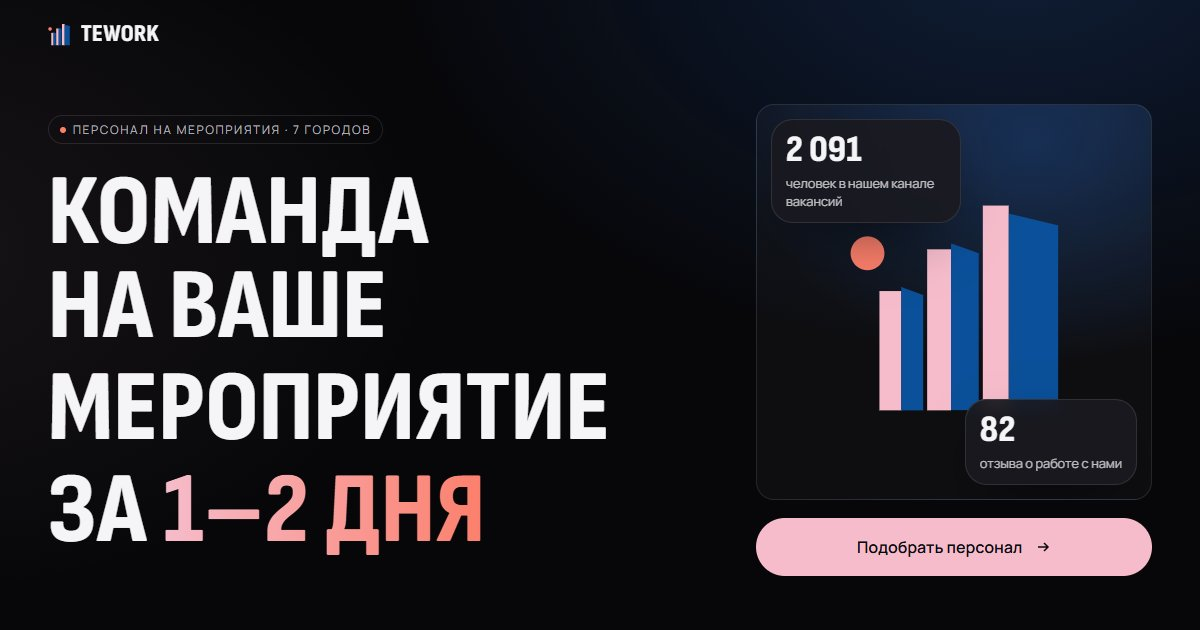
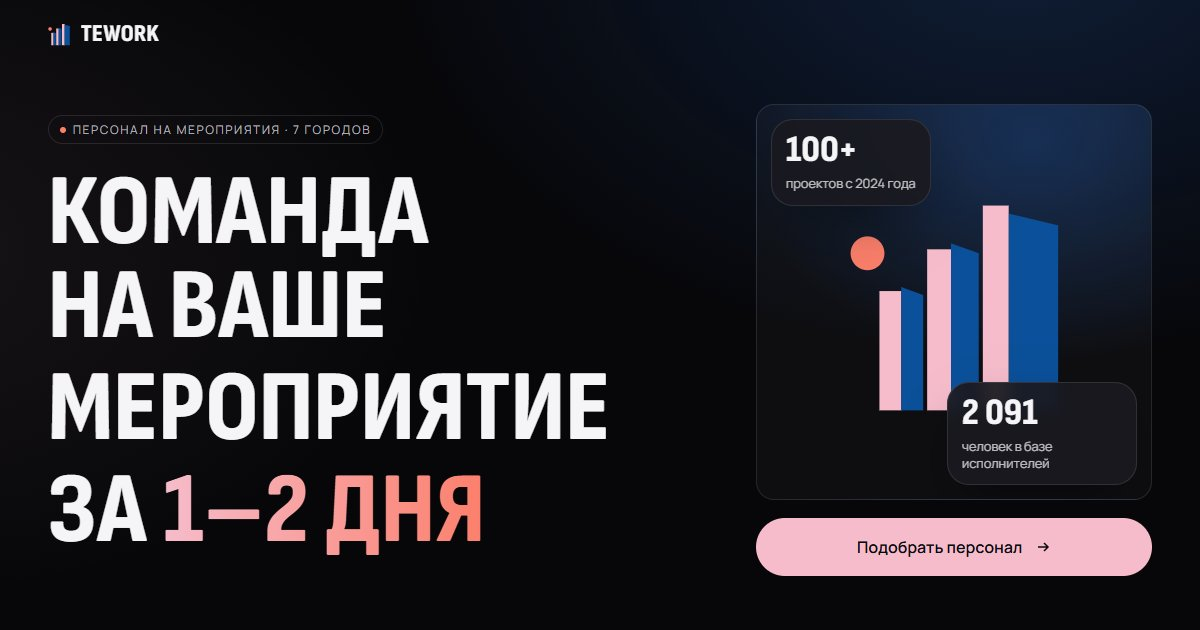
publish 2026-10-06 10:44

Changed region(s): [[0.6475, 0.181, 0.8017, 0.3619], [0.7708, 0.6032, 0.925, 0.754], [0.7092, 0.3619, 0.74, 0.3921]]

diff --git a/index.html b/index.html
@@ -499,6 +499,61 @@ html[data-direction="neon"] .stats{gap:clamp(16px,2.4vw,36px)}
 @media (max-width:560px){.btns .btn{width:100%;white-space:normal;text-align:center}}
 /* наклонная лента не должна давать прокрутку вбок */
 .band{overflow:hidden;padding-block:clamp(18px,3vw,40px)}
+/* ===== v2: проекты шире, отзывы заказчиков, поле в заявке, телефон ===== */
+.case--wide{grid-column:span 2;flex-direction:row;align-items:stretch;padding:12px}
+.case--wide .case__img{flex:0 0 46%;aspect-ratio:auto;min-height:300px}
+.case--wide .case__body{justify-content:center;padding:14px 16px}
+.case--wide .case__t{font-size:clamp(1.8rem,1.3rem + 1.6vw,2.7rem)}
+.picker__free{display:grid;gap:.6rem}
+.picker__in{width:100%;background:color-mix(in srgb,var(--ink) 5%,transparent);border:1px solid var(--line-strong);border-radius:999px;color:var(--ink);font:inherit;font-size:.95rem;padding:.75em 1.1em;outline:0;transition:border-color 160ms ease}
+.picker__in::placeholder{color:var(--ink-mute)}
+.picker__in:focus{border-color:var(--accent)}
+.reviews--workers .review blockquote{font-size:.92rem}
+/* ===== телефон: плотнее, крупнее кнопки, порядок блоков ===== */
+@media (max-width:980px){.case--wide{grid-column:1 / -1}}
+@media (max-width:860px){
+  :root{--sec-pad:clamp(56px,10vw,80px)}
+  .hero--split .hero__in{padding-top:88px}
+  .hero__title{font-size:clamp(3rem, 13.5vw, 4.4rem)}
+  .hero .lead{font-size:1rem;margin-top:1.1rem}
+  .hero__side{gap:12px}
+  .brandmark{padding:12px}
+  .brandmark__svg{width:26%;margin:4px 0 2px}
+  .hero .fcard{padding:10px 12px}
+  .hero .fcard__big{font-size:1.5rem}
+  .band{padding-block:14px}
+  .marquee__track > *{font-size:1rem}
+  .brands__list{gap:.3rem 1.2rem}
+  .brands__list li{font-size:1.35rem}
+  .stats{margin-top:32px;row-gap:22px}
+  .stat__num{font-size:2.2rem}
+  .stat__cap{font-size:.82rem}
+  .bento{gap:10px}
+  .card{padding:18px}
+  .roles li{font-size:.98rem}
+  .step{padding:1.1rem 0}
+  .step__n{font-size:1.5rem}
+  .cases{gap:10px}
+  .case{padding:10px 10px 16px}
+  .case__img{aspect-ratio:16/11}
+  .case--wide{flex-direction:column}
+  .case--wide .case__img{flex:none;aspect-ratio:16/11;min-height:0}
+  .case--text ul{gap:.5rem}
+  .reviews{gap:10px}
+  .review{padding:18px}
+  .review blockquote{font-size:.95rem}
+  .jobs__rate{font-size:2rem}
+  .faq .sec__head{margin-bottom:24px}
+  .picker{padding:18px}
+  .opts{gap:.4rem}
+  .opt span{padding:.55em .9em;font-size:.88rem}
+  .contactline{margin-top:1.2rem}
+  .ftr__word{font-size:22vw}
+}
+@media (max-width:420px){
+  .cases{grid-template-columns:1fr}
+  .hero__title{font-size:clamp(2.7rem, 13vw, 3.4rem)}
+}
 /*/SITE*/
 </style>
 </head>
@@ -516,7 +571,7 @@ html[data-direction="neon"] .stats{gap:clamp(16px,2.4vw,36px)}
   <div class="wrap hdr__in">
     <a class="hdr__logo" href="#top" aria-label="TeWork Agency, наверх"><svg viewBox="-22 0 214 222" aria-hidden="true"><circle cx="-2" cy="62" r="17" fill="#fc7f6b"/><rect x="10" y="100" width="22" height="120" fill="#f6bccb"/><polygon points="32,96 54,104 54,220 32,220" fill="#0a509a"/><rect x="58" y="58" width="24" height="162" fill="#f6bccb"/><polygon points="82,52 110,62 110,220 82,220" fill="#0a509a"/><rect x="114" y="14" width="26" height="206" fill="#f6bccb"/><polygon points="140,22 190,34 190,220 140,220" fill="#0a509a"/></svg>TEWORK</a>
     <nav class="hdr__nav" aria-label="Разделы">
-      <a href="#personal">Персонал</a><a href="#kak">Как работаем</a><a href="#proekty">Проекты</a><a href="#rabota">Работа у нас</a><a href="#voprosy">Вопросы</a>
+      <a href="#personal">Персонал</a><a href="#kak">Как работаем</a><a href="#proekty">Проекты</a><a href="#otzyvy">Отзывы</a><a href="#rabota">Работа у нас</a>
     </nav>
     <a class="btn btn--primary btn--sm" href="#zayavka">Подобрать персонал</a>
   </div>
@@ -535,8 +590,8 @@ html[data-direction="neon"] .stats{gap:clamp(16px,2.4vw,36px)}
       <div class="hero__side">
         <div class="brandmark" aria-hidden="true">
           <svg class="brandmark__svg" viewBox="-22 0 214 222"><circle class="dot" cx="-2" cy="62" r="17" fill="#fc7f6b"/><rect class="bar" style="--i:0" x="10" y="100" width="22" height="120" fill="#f6bccb"/><polygon class="bar" style="--i:1" points="32,96 54,104 54,220 32,220" fill="#0a509a"/><rect class="bar" style="--i:2" x="58" y="58" width="24" height="162" fill="#f6bccb"/><polygon class="bar" style="--i:3" points="82,52 110,62 110,220 82,220" fill="#0a509a"/><rect class="bar" style="--i:4" x="114" y="14" width="26" height="206" fill="#f6bccb"/><polygon class="bar" style="--i:5" points="140,22 190,34 190,220 140,220" fill="#0a509a"/></svg>
-          <div class="fcard fcard--a" style="--i:0"><div class="fcard__big nums">2 091</div><p class="fcard__cap">человек в нашем канале вакансий</p></div>
-          <div class="fcard fcard--b" style="--i:1"><div class="fcard__big nums">82</div><p class="fcard__cap">отзыва о работе с нами</p></div>
+          <div class="fcard fcard--a" style="--i:0"><div class="fcard__big nums">100+</div><p class="fcard__cap">проектов с 2024 года</p></div>
+          <div class="fcard fcard--b" style="--i:1"><div class="fcard__big nums">2 091</div><p class="fcard__cap">человек в базе исполнителей</p></div>
         </div>
         <a class="btn btn--primary hero__cta" href="#zayavka">Подобрать персонал <svg class="btn__arr" viewBox="0 0 16 16" fill="none" stroke="currentColor" stroke-width="1.5" aria-hidden="true"><path d="M3 8h10M9 4l4 4-4 4"/></svg></a>
       </div>
@@ -557,14 +612,14 @@ html[data-direction="neon"] .stats{gap:clamp(16px,2.4vw,36px)}
       <div class="brands" data-reveal>
         <span class="chip">Нам доверяют</span>
         <ul class="brands__list">
-          <li>Сбер</li><li>Cloud.ru</li><li>Яндекс Плюс</li><li>PepsiCo</li><li>МТС Live</li><li>FITmost</li><li>Twinby</li><li>Lumos Concerts</li><li>SQ Clinic</li>
+          <li>Сбер</li><li>Cloud.ru</li><li>Летуаль</li><li>Rostic’s</li><li>DDX Fitness</li><li>FITmost</li><li>PepsiCo</li><li>МТС Live</li><li>Twinby</li><li>Lumos Concerts</li><li>SQ Clinic</li>
         </ul>
       </div>
       <ul class="stats nums" data-reveal>
         <li class="stat"><div class="stat__num">7</div><p class="stat__cap">городов: Москва, Санкт-Петербург, Сочи, Казань, Самара, Калининград, Тверь</p></li>
         <li class="stat"><div class="stat__num">14</div><p class="stat__cap">ролей: от хостес до координатора площадки</p></li>
         <li class="stat"><div class="stat__num">1–2 дня</div><p class="stat__cap">закрываем срочную заявку</p></li>
-        <li class="stat"><div class="stat__num">2024</div><p class="stat__cap">с этого года собираем команды на мероприятия</p></li>
+        <li class="stat"><div class="stat__num">100+</div><p class="stat__cap">проектов с 2024 года: от промо в школах до премий Сбера</p></li>
       </ul>
     </div>
   </section>
@@ -597,7 +652,7 @@ html[data-direction="neon"] .stats{gap:clamp(16px,2.4vw,36px)}
       <div class="sec__head"><span class="chip">Как работаем</span><h2 class="h2">От заявки до <em class="hl">площадки</em></h2><p class="lead">Вам не нужно искать людей и следить за ними на мероприятии. Это наша работа.</p></div>
       <ol class="steps">
         <li class="step" data-reveal style="--i:0"><span class="step__n nums">01</span><h3 class="step__t">Вы рассказываете о мероприятии</h3><p class="step__d">Город, дата, сколько людей и в каких ролях. Хватит сообщения в мессенджере.</p></li>
-        <li class="step" data-reveal style="--i:1"><span class="step__n nums">02</span><h3 class="step__t">Подбираем людей</h3><p class="step__d">Из постоянной базы, с опытом работы на мероприятиях. Срочную заявку закрываем за 1–2 дня.</p><span class="tag">1–2 дня</span></li>
+        <li class="step" data-reveal style="--i:1"><span class="step__n nums">02</span><h3 class="step__t">Подбираем людей и показываем вам</h3><p class="step__d">Из постоянной базы, с опытом работы на мероприятиях. Присылаем презентацию с кандидатами: фото и опыт, вы выбираете. Срочную заявку закрываем за 1–2 дня.</p><span class="tag">1–2 дня</span></li>
         <li class="step" data-reveal style="--i:2"><span class="step__n nums">03</span><h3 class="step__t">Заключаем договор</h3><p class="step__d">Работаем по договору. Условия обсуждаем до мероприятия.</p><span class="tag">договор</span></li>
         <li class="step" data-reveal style="--i:3"><span class="step__n nums">04</span><h3 class="step__t">Координируем на площадке</h3><p class="step__d">Супервайзер ведёт команду: ребята работают слаженно и знают, что делать.</p></li>
         <li class="step" data-reveal style="--i:4"><span class="step__n nums">05</span><h3 class="step__t">Находим замену</h3><p class="step__d">Если кто-то не вышел на смену, ставим другого человека из базы.</p></li>
@@ -605,44 +660,71 @@ html[data-direction="neon"] .stats{gap:clamp(16px,2.4vw,36px)}
     </div>
   </section>
 
-  <!-- ПРОЕКТЫ -->
+
+
+  <!-- ПРОЕКТЫ: фото от агентства (оригиналы), подписи — из описаний Андрея -->
   <section class="sec" id="proekty" aria-label="Проекты">
     <div class="wrap">
-      <div class="sec__head"><span class="chip">Проекты</span><h2 class="h2">Где работала <em class="hl">наша команда</em></h2></div>
+      <div class="sec__head"><span class="chip">Проекты</span><h2 class="h2">Где работала <em class="hl">наша команда</em></h2><p class="lead">Больше ста проектов с 2024 года. Вот несколько.</p></div>
       <div class="cases">
-        <article class="case" data-reveal style="--i:0">
-          <div class="case__img"><img src="assets/works/post15-1.jpg" alt="Промо-модели TeWork на Премии в области R&amp;D" width="533" height="666" loading="lazy"></div>
+        <article class="case case--wide" data-reveal style="--i:0">
+          <div class="case__img"><img src="assets/works/letual-1.jpg" alt="Студенты-амбассадоры Летуаль в вузе" width="900" height="1125" loading="lazy"></div>
+          <div class="case__body"><p class="case__who">Летуаль · Москва</p><h3 class="case__t">Амбассадоры в 18 вузах</h3><p>Студенты-амбассадоры две недели одновременно работали в своих вузах и продвигали «бьюти-стипендию».</p>
+            <div class="tags"><span class="tag">18 вузов</span><span class="tag">2 недели</span><span class="tag">Промо-персонал</span></div></div>
+        </article>
+        <article class="case" data-reveal style="--i:1">
+          <div class="case__img"><img src="assets/works/sber-rd.jpg" alt="Промо-модели TeWork на Премии в области R&amp;D" width="533" height="666" loading="lazy"></div>
           <div class="case__body"><p class="case__who">Сбер и Cloud.ru</p><h3 class="case__t">Премия в области R&amp;D</h3><p>Промо-модели встречали гостей, супервайзеры координировали площадку и участвовали в церемонии награждения.</p>
             <div class="tags"><span class="tag">Промо-модели</span><span class="tag">Супервайзеры</span></div></div>
         </article>
-        <article class="case" data-reveal style="--i:1">
-          <div class="case__img"><img src="assets/works/post18-1.jpg" alt="Сцена концерта при свечах Lumos Concerts" width="600" height="750" loading="lazy"></div>
-          <div class="case__body"><p class="case__who">Lumos Concerts</p><h3 class="case__t">Концерт при свечах</h3><p>Струнный квартет при свечах. На концерте работала наша команда.</p></div>
-        </article>
         <article class="case" data-reveal style="--i:2">
-          <div class="case__img"><img src="assets/works/post26-1.jpg" alt="Промоутеры TeWork на Match&amp;Stretch" width="600" height="750" loading="lazy"></div>
-          <div class="case__body"><p class="case__who">FITmost и Twinby · Санкт-Петербург</p><h3 class="case__t">Match&amp;Stretch</h3><p>30 августа 2025. Промоутеры сопровождали гостей весь день: мастер-классы, лекции, йога.</p>
-            <div class="tags"><span class="tag">Промоутеры</span><span class="tag">Координатор</span></div></div>
+          <div class="case__img"><img src="assets/works/ddx-run.jpg" alt="Команда DDX Fitness на московском забеге" width="900" height="1125" loading="lazy"></div>
+          <div class="case__body"><p class="case__who">DDX Fitness · Москва</p><h3 class="case__t">Забеги с поддержкой</h3><p>Наша команда поддерживала бегунов на московских забегах и давала мотивацию. Несколько локаций, один партнёр.</p>
+            <div class="tags"><span class="tag">Промо-персонал</span></div></div>
         </article>
         <article class="case" data-reveal style="--i:0">
-          <div class="case__img"><img src="assets/works/post12-2.jpg" alt="Йога на крыше, мероприятие FITmost" width="640" height="800" loading="lazy"></div>
+          <div class="case__img"><img src="assets/works/morozhenoe.jpg" alt="Акция «Ура, мороженое» в школе" width="900" height="1125" loading="lazy"></div>
+          <div class="case__body"><p class="case__who">Школы и университет</p><h3 class="case__t">Акция «Ура, мороженое»</h3><p>Две школы и один университет. Учащиеся отвлеклись от учёбы и попробовали новинки.</p>
+            <div class="tags"><span class="tag">Промоутеры</span></div></div>
+        </article>
+        <article class="case" data-reveal style="--i:1">
+          <div class="case__img"><img src="assets/works/fitmost-yoga.jpg" alt="Йога на крыше, мероприятие FITmost" width="640" height="800" loading="lazy"></div>
           <div class="case__body"><p class="case__who">FITmost</p><h3 class="case__t">Солнечная йога</h3><p>Йога и медитация на крыше. Ведущий вёл программу, хелперы следили за порядком.</p>
             <div class="tags"><span class="tag">Ведущий</span><span class="tag">Хелперы</span></div></div>
         </article>
-        <article class="case case--text" data-reveal style="--i:1">
+        <article class="case" data-reveal style="--i:2">
+          <div class="case__img"><img src="assets/works/match-stretch.jpg" alt="Промоутеры TeWork на Match&amp;Stretch" width="600" height="750" loading="lazy"></div>
+          <div class="case__body"><p class="case__who">FITmost и Twinby · Санкт-Петербург</p><h3 class="case__t">Match&amp;Stretch</h3><p>Промоутеры сопровождали гостей весь день: мастер-классы, лекции, йога.</p>
+            <div class="tags"><span class="tag">Промоутеры</span><span class="tag">Координатор</span></div></div>
+        </article>
+        <article class="case case--text" data-reveal style="--i:0">
           <div><p class="case__who">И ещё</p><h3 class="case__t" style="margin-top:.5rem">Другие проекты</h3></div>
           <ul>
+            <li>День рождения Rostic’s<small>промоутеры развлекали гостей ресторана</small></li>
+            <li>Концерт при свечах Lumos Concerts<small>струнный квартет, тысячи свечей</small></li>
             <li>Конференция PepsiCo<small>4 и 5 марта 2025</small></li>
             <li>SQ Clinic на InterCHARM и Russian Barber Week<small>октябрь 2025</small></li>
             <li>Стенд МТС Live<small>17 августа 2025</small></li>
-            <li>Яндекс Плюс<small>февраль 2025</small></li>
           </ul>
         </article>
-        <article class="case case--cta" data-reveal style="--i:2">
+        <article class="case case--cta" data-reveal style="--i:1">
           <div><p class="case__who">Место для вас</p><h3 class="case__t" style="margin-top:.5rem">Следующим может быть ваш проект</h3></div>
           <div class="btns"><a class="btn btn--ghost" href="#zayavka">Рассказать о мероприятии</a></div>
         </article>
       </div>
+    </div>
+  </section>
+
+  <!-- ОТЗЫВЫ ЗАКАЗЧИКОВ: дословно из переписки, переданы Андреем 05–06.10.2026 -->
+  <section class="sec" id="otzyvy" aria-label="Отзывы заказчиков">
+    <div class="wrap">
+      <div class="sec__head"><span class="chip">Отзывы заказчиков</span><h2 class="h2">«Всегда были на связи и оперативно <em class="hl">отвечали</em>»</h2></div>
+      <div class="reviews">
+        <figure class="review" data-reveal style="--i:0"><blockquote>«Андрей, привет! Возвращаюсь с фитбэком после ивента к тебе! Хочу поблагодарить тебя и всю команду TeWork Agency за отличную работу. Понравилось, что вы всегда были на связи и оперативно отвечали на все вопросы. Процесс работы с вами правда был прозрачным, быстрым, поэтому и мы и клиент остались только с хорошим впечатлением после мероприятия. Будем на обязательно на связи и с радостью поработаем в будущем»</blockquote><figcaption class="review__who"><span class="review__av">F</span><span><b>FITmost</b>после мероприятия</span></figcaption></figure>
+        <figure class="review" data-reveal style="--i:1"><blockquote>«Ценю работу с агентством TeWork Agency за качество и совершенный сервис. Всегда уверена, что запрос будет выполнен, потому что Андрей искренне болеет за результат. На них всегда можно положиться.»</blockquote><figcaption class="review__who"><span class="review__av">R</span><span><b>Rostic’s</b>заказчик</span></figcaption></figure>
+        <figure class="review" data-reveal style="--i:2"><blockquote>«Периодически пользуюсь услугами агенства TeWork Agency, все очень понравилось. Работают очень ответственные ребята, клиентоориентированные и отзывчивые»</blockquote><figcaption class="review__who"><span class="review__av">З</span><span><b>Заказчик масс-подбора</b>постоянный клиент</span></figcaption></figure>
+      </div>
+      <p class="reviews__note">Отзывы заказчиков без правок.</p>
     </div>
   </section>
 
@@ -656,12 +738,12 @@ html[data-direction="neon"] .stats{gap:clamp(16px,2.4vw,36px)}
           <div class="btns"><a class="btn btn--ghost" href="https://t.me/TeWorkAgency" target="_blank" rel="noopener">Смотреть вакансии в Telegram</a></div>
         </div>
       </div>
-      <div class="reviews" id="otzyvy">
+      <div class="reviews reviews--workers">
         <figure class="review" data-reveal style="--i:0"><blockquote>«Работала на мероприятии фитмоста в коллаборации с твинби в Санкт-Петербурге. Всё прошло хорошо. Атмосфера была очень дружеская. Порадовала сплочённость команды. Приятным бонусом было то, что о работниках позаботились, заказали воду и еду. Оплата пришла на утро после мероприятия. Спасибо большое Андрею и TeWork! Буду ждать дальнейших проектов в Питере 😉»</blockquote><figcaption class="review__who"><span class="review__av">С</span><span><b>Софья</b>31 августа 2025</span></figcaption></figure>
         <figure class="review" data-reveal style="--i:1"><blockquote>«Работала от  TeWork Очень понравилось сотрудничество, работали в дружном и ответственном коллективе. ЗП получили в день работы . Команда всегда была на связи. Остались только положительные эмоции и добрые воспоминания»</blockquote><figcaption class="review__who"><span class="review__av">E</span><span><b>ENNI</b>13 октября 2025</span></figcaption></figure>
         <figure class="review" data-reveal style="--i:2"><blockquote>«Хочу поблагодарить команду TeWork Agency за предложение работы! На заявки отвечают профессионально и быстро. Отдельно отмечу четкую коммуникацию и ответственный подход на всех этапах. Оплата труда произведена в кратчайшие сроки, определённо рекомендую к сотрудничеству!»</blockquote><figcaption class="review__who"><span class="review__av">L</span><span><b>Lizaveta Hrabouskaya</b>20 сентября 2025</span></figcaption></figure>
       </div>
-      <p class="reviews__note">Отзывы из нашего Telegram-канала без правок. <a href="https://t.me/TeWorkfeedback" target="_blank" rel="noopener">Все 82 отзыва</a></p>
+      <p class="reviews__note">Отзывы исполнителей из нашего Telegram-канала без правок. <a href="https://t.me/TeWorkfeedback" target="_blank" rel="noopener">Все 82 отзыва</a></p>
     </div>
   </section>
 
@@ -684,7 +766,7 @@ html[data-direction="neon"] .stats{gap:clamp(16px,2.4vw,36px)}
   <section class="sec" id="zayavka" aria-label="Заявка">
     <div class="wrap duo">
       <div>
-        <div class="sec__head" style="margin-bottom:0"><span class="chip">Заявка</span><h2 class="h2">Расскажите о <em class="hl">мероприятии</em></h2><p class="lead">Отметьте, кто нужен и в каком городе. Сообщение соберётся само, останется отправить.</p></div>
+        <div class="sec__head" style="margin-bottom:0"><span class="chip">Заявка</span><h2 class="h2">Расскажите о <em class="hl">мероприятии</em></h2><p class="lead">Отметьте, кто нужен, сколько и в каком городе. Сообщение соберётся само, останется отправить.</p></div>
         <div class="contactline"><a class="tel nums" href="tel:+79166188554">+7 916 618-85-54</a><span>WhatsApp и Telegram по этому номеру</span></div>
       </div>
       <form class="picker" data-picker data-wa="79166188554" data-greet="Здравствуйте! Нужен персонал на мероприятие">
@@ -709,6 +791,15 @@ html[data-direction="neon"] .stats{gap:clamp(16px,2.4vw,36px)}
           <label class="opt"><input type="radio" name="c" value="Калининград"><span>Калининград</span></label>
           <label class="opt"><input type="radio" name="c" value="Тверь"><span>Тверь</span></label>
         </div></fieldset>
+        <fieldset><legend>Сколько человек</legend><div class="opts">
+          <label class="opt"><input type="radio" name="n" value="1–3 человека"><span>1–3</span></label>
+          <label class="opt"><input type="radio" name="n" value="4–10 человек" checked><span>4–10</span></label>
+          <label class="opt"><input type="radio" name="n" value="11–30 человек"><span>11–30</span></label>
+          <label class="opt"><input type="radio" name="n" value="больше 30 человек"><span>30+</span></label>
+        </div></fieldset>
+        <fieldset class="picker__free"><legend>Дата, время и локация, если известны</legend>
+          <input class="picker__in" type="text" name="d" data-free placeholder="например: 14 ноября, 10:00–18:00, Крокус" autocomplete="off" maxlength="120">
+        </fieldset>
         <p class="picker__out" data-out></p>
         <div class="btns"><a class="btn btn--primary" data-send href="#" target="_blank" rel="noopener">Отправить в WhatsApp</a><a class="btn btn--ghost" href="https://t.me/+79166188554" target="_blank" rel="noopener">Написать в Telegram</a></div>
       </form>
@@ -718,7 +809,7 @@ html[data-direction="neon"] .stats{gap:clamp(16px,2.4vw,36px)}
 </main>
 
 <footer class="ftr">
-  <div class="wrap ftr__row"><span>TeWork Agency. Персонал на мероприятия.</span><span>Сайт-демо</span></div>
+  <div class="wrap ftr__row"><span>TeWork Agency. Персонал на мероприятия в семи городах.</span><span>© 2026</span></div>
   <div class="ftr__word" aria-hidden="true">TEWORK</div>
 </footer>
 
@@ -767,11 +858,12 @@ html[data-direction="neon"] .stats{gap:clamp(16px,2.4vw,36px)}
     var build = function () {
       var parts = [];
       f.querySelectorAll('input:checked').forEach(function (i) { parts.push(i.value); });
+      f.querySelectorAll('[data-free]').forEach(function (i) { if (i.value.trim()) parts.push(i.value.trim()); });
       var msg = (f.dataset.greet || 'Здравствуйте! Хочу записаться') + ': ' + parts.join(', ') + '.';
       out.textContent = msg;
       if (send) send.href = f.dataset.tg ? ('https://t.me/' + f.dataset.tg) : ('https://wa.me/' + f.dataset.wa + '?text=' + encodeURIComponent(msg));
     };
-    f.addEventListener('change', build); build();
+    f.addEventListener('change', build); f.addEventListener('input', build); build();
   });
 
   // вопросы
